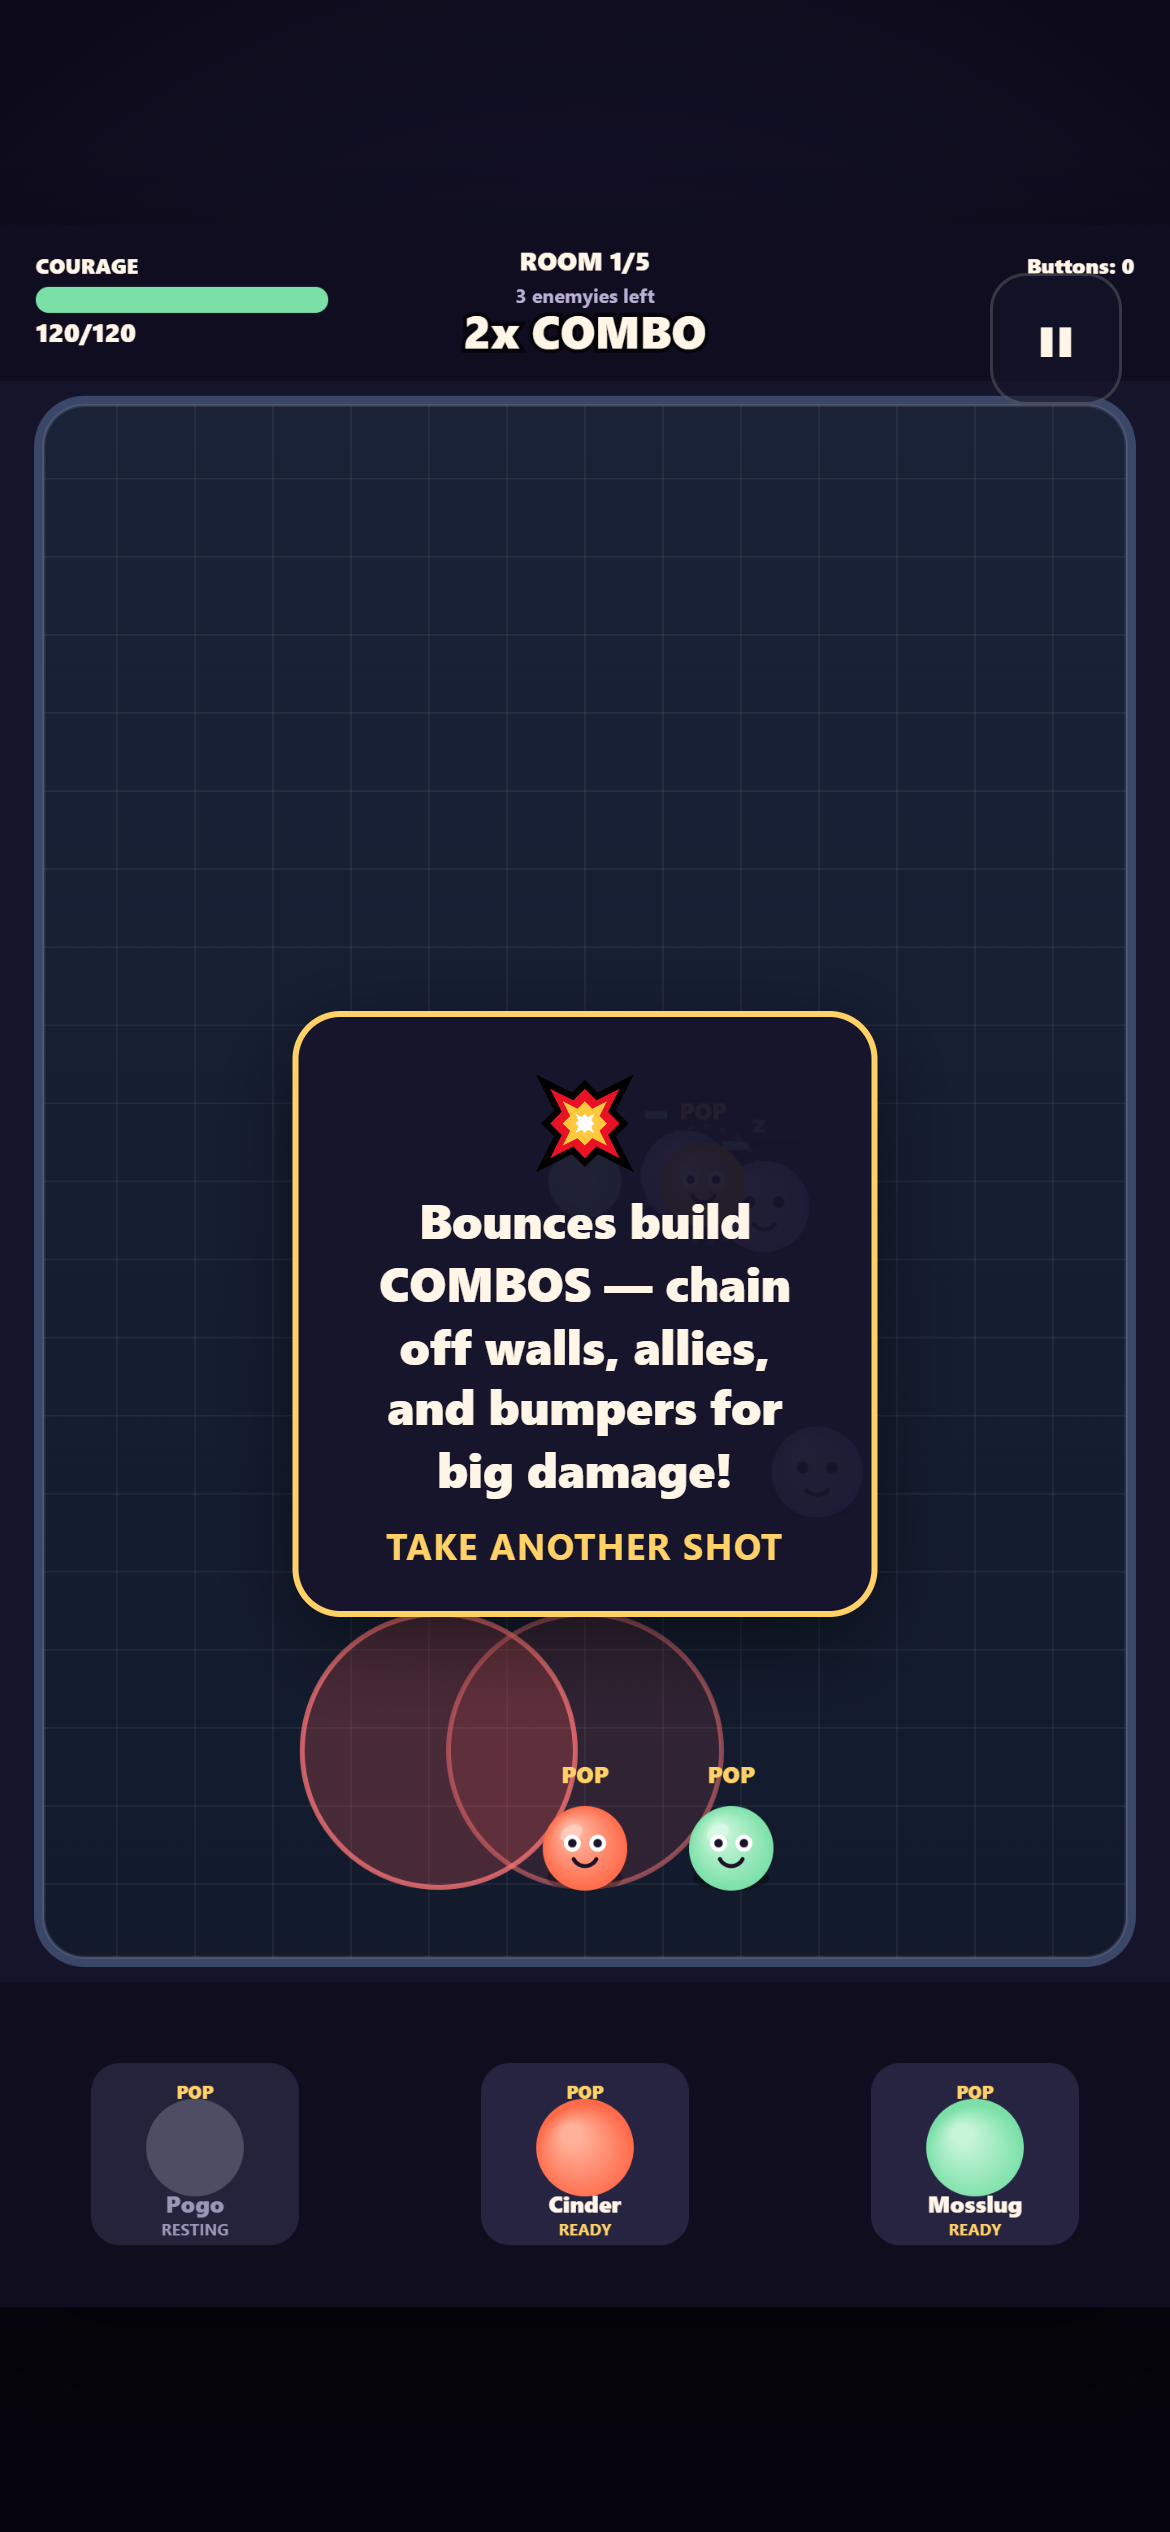
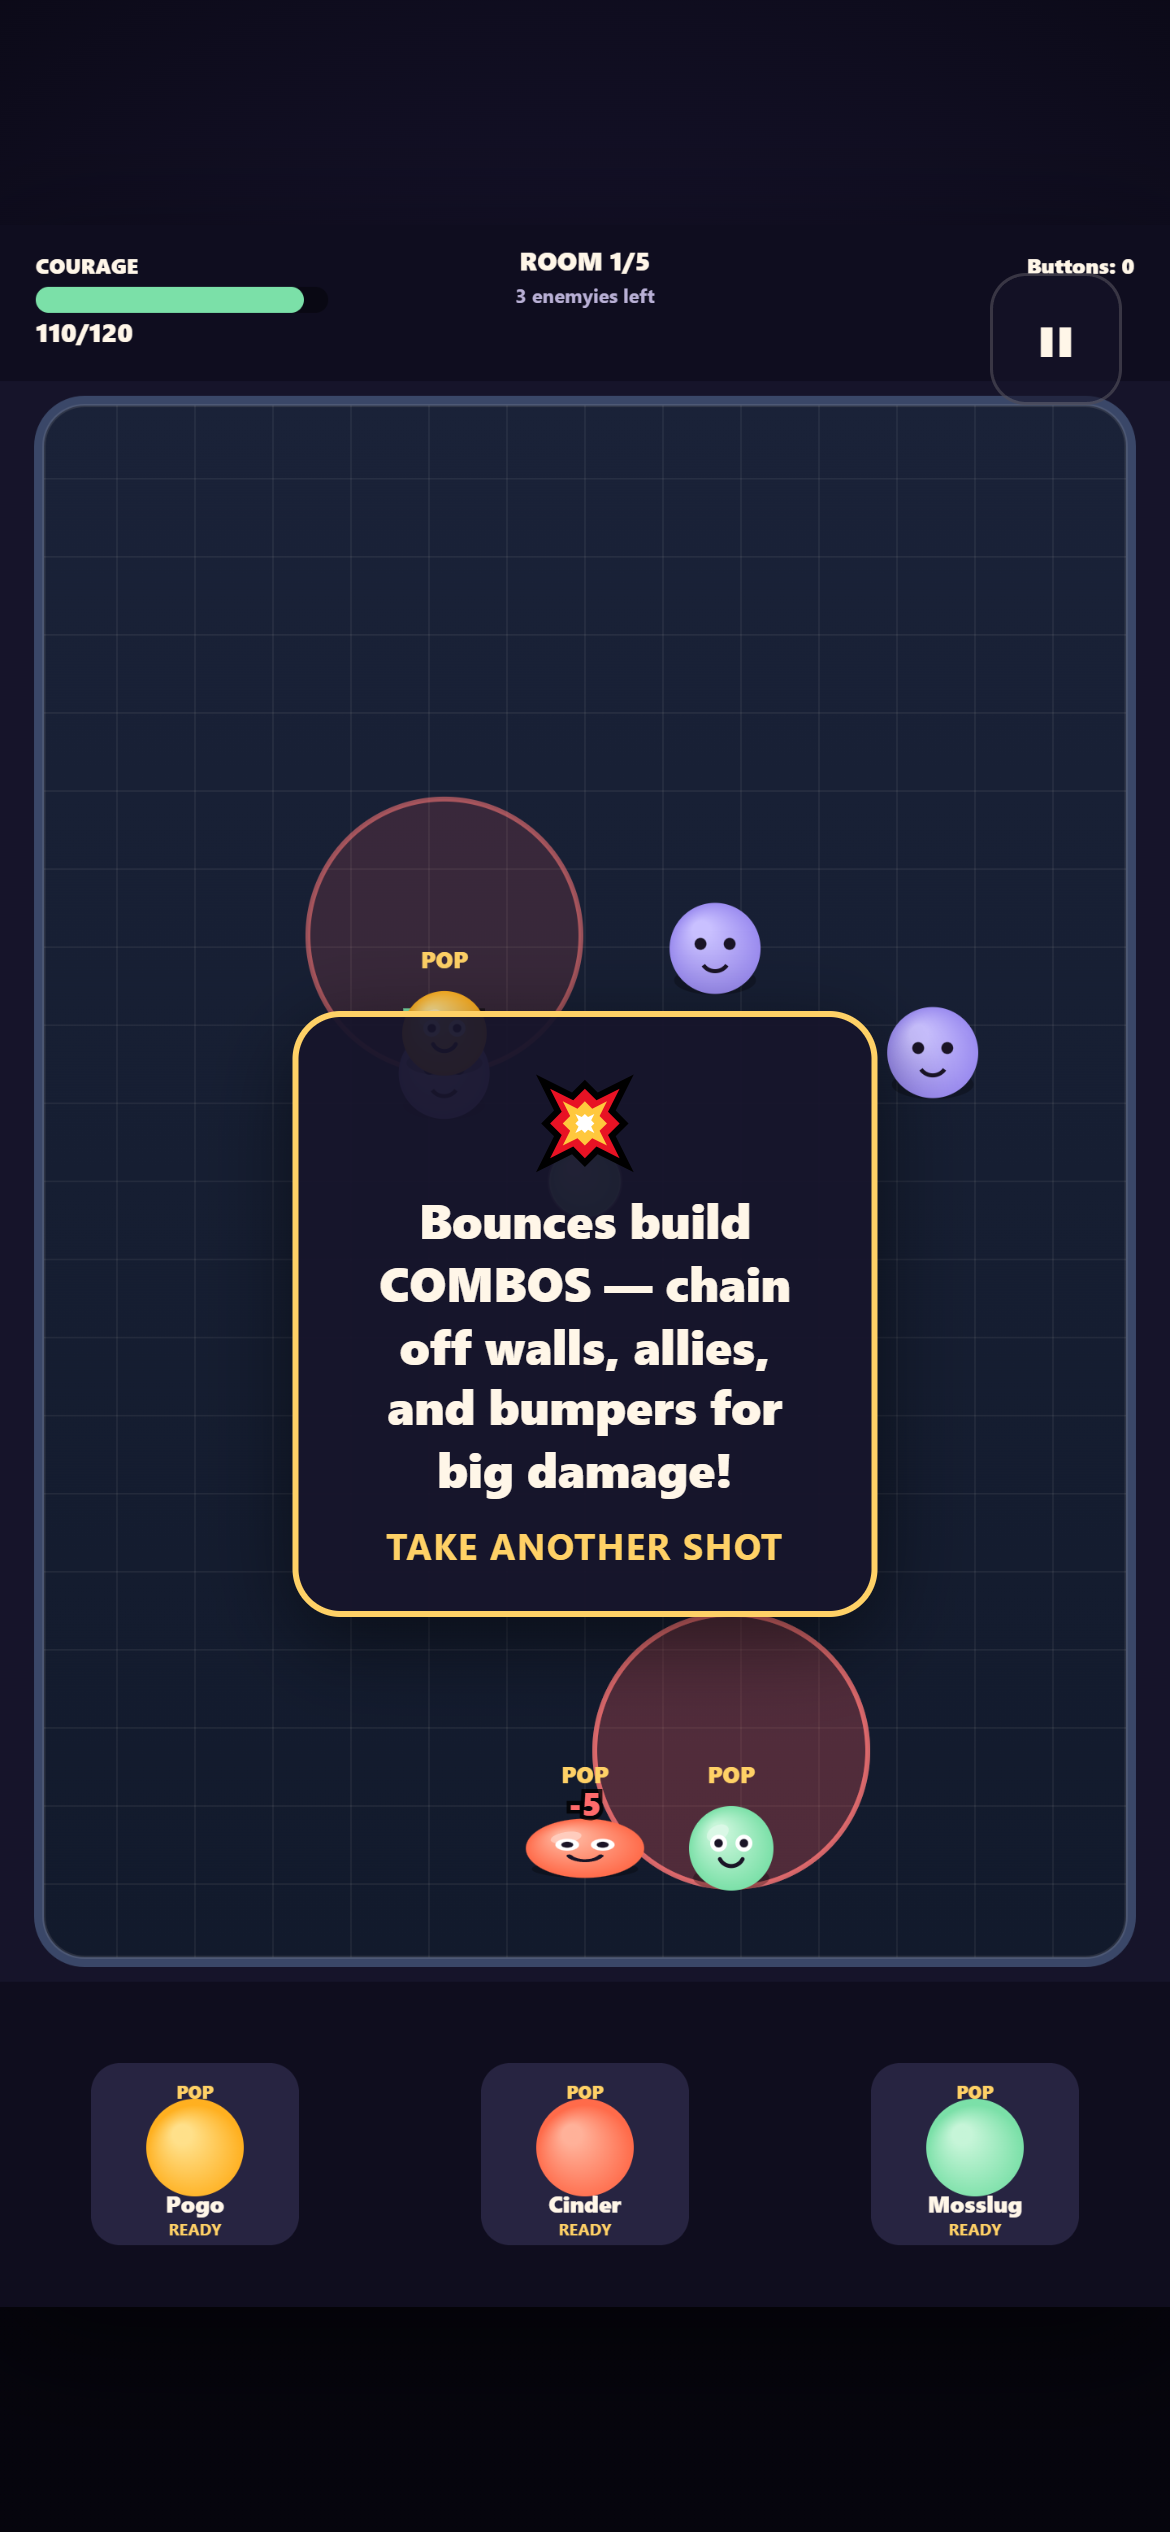
feat: full 36-augment set (§9) + high-impact hooks wired
Complete blueprint §9 augment catalog: 6 families × 6 = 36 augments
(Bounce, Buddy, Precision, Element, Swarm, Courage).
Wired high-impact hooks: spicy_corners (wall→burn), spotlight (kill marked
→ mark farthest), last_laugh (survive lethal once/room), brave_face (shield
when low courage), party_crashers (2 bumpers on room enter), plus all
previous 12. Offer generator distributes all 36 safely (unwired = no effect).

diff --git a/www/js/game.js b/www/js/game.js
@@ -347,6 +347,20 @@
       this.activePoplingIdx = 0;
       this.roomBestCombo = 0;
       this.roomClearTime = 0;
+      this._lastLaughUsed = false; // reset per-room Last Laugh (§9)
+      // Party Crashers (§9 Swarm): entering a new room begins with two neutral bumpers.
+      if (this.hasAug && this.hasAug('party_crashers')) {
+        room.objects.push({
+          uid: 'pc0', kind: 'object', id: 'bumper',
+          x: a.x + a.w * 0.35, y: a.y + a.h * 0.4,
+          r: 20, bumper: true, restitution: 1.2, def: { color: '#ff7b9c', color2: '#ffc4d8' }, sx: 1, sy: 1, _hit: 0,
+        });
+        room.objects.push({
+          uid: 'pc1', kind: 'object', id: 'bumper',
+          x: a.x + a.w * 0.65, y: a.y + a.h * 0.4,
+          r: 20, bumper: true, restitution: 1.2, def: { color: '#ff7b9c', color2: '#ffc4d8' }, sx: 1, sy: 1, _hit: 0,
+        });
+      }
       this.room = room;
       this.computeIntents();
       this.phase = PH.AIM;
@@ -671,6 +685,8 @@
         }
         // No Brakes: damage up while above launch speed (applied on next enemy)
         ss.aboveLaunch = sp > ss.launchSpeed;
+        // Spicy Corners (§9 Element): wall hit primes Burn for the next enemy struck.
+        if (this.hasAug('spicy_corners')) ss.spicyCornersPrimed = true;
         // wall pop sound (timbre: triangle) — climb scale by combo
         PP_Audio.comboHit(ss.combo, 'wall');
         PP_Effects.burst(ev.point.x, ev.point.y, ev.nx, ev.ny, { count: 5, color: '#cfd6e6', speed: 200, size: 3, life: 0.25 });
@@ -847,6 +863,11 @@
       PP_Effects.hitStop(crit ? T.hitStopMax : T.hitStopMin);
       // Cinder passive: direct hit adds Burn
       if (ap.def.passiveId === 'ignite') this.applyStatus(e, 'burn', 1);
+      // Spicy Corners (§9): if a wall was hit before this enemy, apply Burn.
+      if (this.shotState && this.shotState.spicyCornersPrimed && this.hasAug('spicy_corners')) {
+        this.applyStatus(e, 'burn', 1);
+        this.shotState.spicyCornersPrimed = false;
+      }
       // Tether Twins: share damage with a linked twin within linkRadius (§10).
       if (e.id === 'tether' && e.hp > 0 && !e._tetherShared) {
         const linkR = e.def.linkRadius || 200;
@@ -903,6 +924,19 @@
     killEnemy(e, ap) {
       e.dead = true;
       this.runStats.enemiesDefeated++;
+      // Spotlight (§9 Element): defeating a Marked target marks the farthest enemy.
+      if (this.hasAug('spotlight') && e.statuses && e.statuses.mark) {
+        let farthest = null, maxD = 0;
+        for (const other of this.room.enemies) {
+          if (other.dead || other === e) continue;
+          const d = dist(other.x, other.y, e.x, e.y);
+          if (d > maxD) { maxD = d; farthest = other; }
+        }
+        if (farthest) {
+          this.applyStatus(farthest, 'mark', 1);
+          PP_Effects.floatText(farthest.x, farthest.y - farthest.r - 20, 'MARKED', { color: '#ff7b9c', size: 16 });
+        }
+      }
       // celebratory burst
       PP_Effects.burst(e.x, e.y, 0, -1, { count: 20, color: e.def.color2, speed: 420, size: 6, life: 0.6, kind: 'dot', spread: 2 });
       PP_Effects.ring(e.x, e.y, { color: e.def.color, radius: e.r, life: 0.4, width: 5 });
@@ -1207,6 +1241,11 @@
       // choose a ready popling as active
       const readyIdx = this.squad.findIndex((p) => p.state === 'ready');
       this.activePoplingIdx = readyIdx >= 0 ? readyIdx : 0;
+      // Brave Face (§9 Courage): below 30 Courage, gain shield at turn start.
+      if (this.hasAug('brave_face') && this.courage < 30 && this.courage > 0) {
+        this.shield = Math.min(this.maxCourage * 0.3, this.shield + 8);
+        PP_Effects.floatText(A.x + A.w / 2, A.y + 40, '+8 BRAVE', { color: '#7fc7ff', size: 16 });
+      }
       this.computeIntents();
 
       // check room clear
@@ -1236,6 +1275,15 @@
       }
       this._lastFailCause = cause;
       if (this.courage <= 0) {
+        // Last Laugh (§9 Courage/rare): once per room, lethal damage leaves 1 Courage.
+        if (this.hasAug('last_laugh') && !this._lastLaughUsed) {
+          this._lastLaughUsed = true;
+          this.courage = 1;
+          PP_Effects.floatText(A.x + A.w / 2, A.y + A.h / 2, 'LAST LAUGH!', { color: '#ffd166', size: 28, big: true, life: 1.2 });
+          PP_Effects.ring(A.x + A.w / 2, A.y + A.h / 2, { color: '#ffd166', radius: 120, life: 0.6, width: 8 });
+          PP_Effects.flash(0.4);
+          return;
+        }
         this.courage = 0;
         this.onRunLost();
       }

diff --git a/www/js/content.js b/www/js/content.js
@@ -158,11 +158,39 @@
     { id: 'pass_it_on', name: 'Pass It On', family: 'Buddy', rarity: 'common', desc: 'Buddy hit transfers one positive status.', icon: '🔄', tags: ['buddy','status'], hook: 'pass_it_on' },
     { id: 'wake_up', name: 'Wake-Up Call', family: 'Buddy', rarity: 'common', desc: 'Hitting a resting ally makes it Ready next turn.', icon: '⏰', tags: ['buddy','ready'], hook: 'wake_up' },
     { id: 'threes_company', name: 'Three\u2019s Company', family: 'Buddy', rarity: 'rare', desc: 'Touching both allies in one shot heals Courage (+10).', icon: '💛', tags: ['buddy','heal'], hook: 'threes_company' },
+    { id: 'secret_handshake', name: 'Secret Handshake', family: 'Buddy', rarity: 'rare', desc: 'Alternating the same two Poplings escalates Buddy power.', icon: '🤝', tags: ['buddy','escalate'], hook: 'secret_handshake' },
+    { id: 'group_photo', name: 'Group Photo', family: 'Buddy', rarity: 'rare', desc: 'Ending all three Poplings close together grants a temporary aura.', icon: '📸', tags: ['buddy','aura'], hook: 'group_photo' },
     // Precision
     { id: 'called_shot', name: 'Called Shot', family: 'Precision', rarity: 'common', desc: 'First enemy hit matches the preview and gains +25% damage.', icon: '🎯', tags: ['precision','damage'], hook: 'called_shot' },
     { id: 'bank_shot', name: 'Bank Shot', family: 'Precision', rarity: 'common', desc: 'First enemy hit after a wall is guaranteed critical.', icon: '🏦', tags: ['precision','crit'], hook: 'bank_shot' },
     { id: 'long_distance', name: 'Long Distance', family: 'Precision', rarity: 'common', desc: 'Damage increases with travel distance before first enemy contact.', icon: '📏', tags: ['precision','damage'], hook: 'long_distance' },
     { id: 'clean_entrance', name: 'Clean Entrance', family: 'Precision', rarity: 'rare', desc: 'Hitting an enemy before touching a wall creates shield (+8).', icon: '🛡️', tags: ['precision','shield'], hook: 'clean_entrance' },
+    // Element (§9 #13-18)
+    { id: 'spicy_corners', name: 'Spicy Corners', family: 'Element', rarity: 'common', desc: 'Wall hits add one Burn to the next enemy struck.', icon: '🔥', tags: ['element','burn'], hook: 'spicy_corners' },
+    { id: 'cold_snap', name: 'Cold Snap', family: 'Element', rarity: 'common', desc: 'First Chill each turn also slows nearby enemies.', icon: '❄️', tags: ['element','chill'], hook: 'cold_snap' },
+    { id: 'parallel_circuit', name: 'Parallel Circuit', family: 'Element', rarity: 'common', desc: 'Shock may chain through a Buddy.', icon: '⚡', tags: ['element','shock'], hook: 'parallel_circuit' },
+    { id: 'wild_garden', name: 'Wild Garden', family: 'Element', rarity: 'rare', desc: 'Bloom bumpers grow larger after being struck.', icon: '🌿', tags: ['element','bloom'], hook: 'wild_garden' },
+    { id: 'fault_line', name: 'Fault Line', family: 'Element', rarity: 'common', desc: 'Break shockwaves travel through breakable objects.', icon: '🌋', tags: ['element','break'], hook: 'fault_line' },
+    { id: 'spotlight', name: 'Spotlight', family: 'Element', rarity: 'rare', desc: 'Defeating a Marked target marks the farthest enemy.', icon: '🔦', tags: ['element','mark'], hook: 'spotlight' },
+    // Precision continued (§9 #19-24)
+    { id: 'thread_the_needle', name: 'Thread the Needle', family: 'Precision', rarity: 'common', desc: 'Passing close to an enemy charges POP faster.', icon: '🪡', tags: ['precision','pop'], hook: 'thread_the_needle' },
+    { id: 'perfect_pause', name: 'Perfect Pause', family: 'Precision', rarity: 'rare', desc: 'Triggering POP inside a timing window briefly slows motion.', icon: '⏸️', tags: ['precision','slowmo'], hook: 'perfect_pause' },
+    { id: 'soft_landing', name: 'Soft Landing', family: 'Bounce', rarity: 'common', desc: 'Ending a shot beside an ally grants shield (+6).', icon: '🛬', tags: ['bounce','shield'], hook: 'soft_landing' },
+    { id: 'round_trip', name: 'Round Trip', family: 'Bounce', rarity: 'common', desc: 'Returning near the start point refunds part of POP charge.', icon: '🔄', tags: ['bounce','pop'], hook: 'round_trip' },
+    // Swarm (§9 #25-30)
+    { id: 'pocket_echo', name: 'Pocket Echo', family: 'Swarm', rarity: 'common', desc: 'First POP creates a harmless echo that can trigger objects.', icon: '🔔', tags: ['swarm','echo'], hook: 'pocket_echo' },
+    { id: 'loose_change', name: 'Loose Change', family: 'Swarm', rarity: 'common', desc: 'Breakables release bouncing coins that deal tiny impact damage.', icon: '🪙', tags: ['swarm','coins'], hook: 'loose_change' },
+    { id: 'mini_me', name: 'Mini Me', family: 'Swarm', rarity: 'rare', desc: 'Every 20th combo spawns a one-hit miniature Popling.', icon: '🐣', tags: ['swarm','minion'], hook: 'mini_me' },
+    { id: 'fireflies', name: 'Fireflies', family: 'Swarm', rarity: 'common', desc: 'Healing releases seeking lights that apply Mark.', icon: '✨', tags: ['swarm','mark'], hook: 'fireflies' },
+    { id: 'afterimage', name: 'Afterimage', family: 'Swarm', rarity: 'common', desc: 'Critical hits leave a delayed impact ghost.', icon: '👻', tags: ['swarm','ghost'], hook: 'afterimage' },
+    { id: 'party_crashers', name: 'Party Crashers', family: 'Swarm', rarity: 'common', desc: 'Entering a new room begins with two neutral bumpers.', icon: '🎉', tags: ['swarm','bumpers'], hook: 'party_crashers' },
+    // Courage (§9 #31-36)
+    { id: 'brave_face', name: 'Brave Face', family: 'Courage', rarity: 'common', desc: 'Below 30 Courage, first hit each turn grants shield.', icon: '😤', tags: ['courage','shield'], hook: 'brave_face' },
+    { id: 'close_call', name: 'Close Call', family: 'Courage', rarity: 'common', desc: 'Leaving an intent zone during the shot heals one Courage.', icon: '😮💨', tags: ['courage','heal'], hook: 'close_call' },
+    { id: 'overprotective', name: 'Overprotective', family: 'Courage', rarity: 'common', desc: 'Excess healing becomes a capped shield.', icon: '🫂', tags: ['courage','shield'], hook: 'overprotective' },
+    { id: 'last_laugh', name: 'Last Laugh', family: 'Courage', rarity: 'rare', desc: 'Once per room, lethal damage leaves one Courage.', icon: '😈', tags: ['courage','survive'], hook: 'last_laugh' },
+    { id: 'belly_flop', name: 'Belly Flop', family: 'Courage', rarity: 'common', desc: 'Heavier Poplings gain power based on current shield.', icon: '🤰', tags: ['courage','damage'], hook: 'belly_flop' },
+    { id: 'all_in', name: 'All In', family: 'Courage', rarity: 'rare', desc: 'Lose trajectory preview; gain damage and double score.', icon: '🃏', tags: ['courage','risk'], hook: 'all_in' },
   ];
 
   // ---- Worlds (§11) — Phase 0 greybox single arena; flavor only. ----